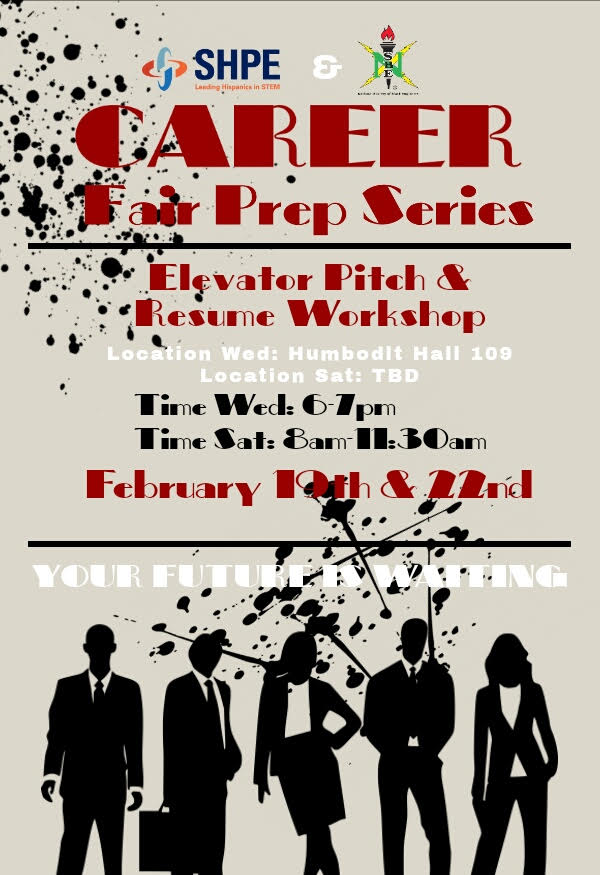
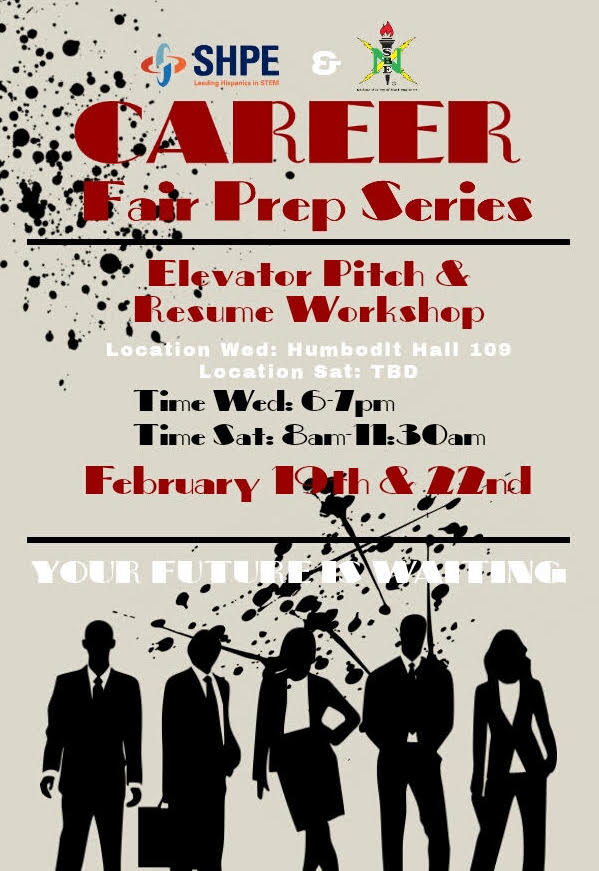
.

diff --git a/index.html b/index.html
@@ -161,8 +161,8 @@
 
         <div>
           <h2>Upcoming Event</h2>
-          <a href="./events/Flyers/Spring20/pandaFundraiser.png" target="_blank">
-            <img src="./events/Flyers/Spring20/pandaFundraiser.png" width="100%" class="jumbotron" style="padding-bottom: 16px; padding-top: 16px; padding-left: 16px; padding-right: 16px;">
+          <a href="./events/Flyers/Spring20/CareerFairPrep.jpg" target="_blank">
+            <img src="./events/Flyers/Spring20/CareerFairPrep.jpg" width="100%" class="jumbotron" style="padding-bottom: 16px; padding-top: 16px; padding-left: 16px; padding-right: 16px;">
           </a>
 
         </div>
